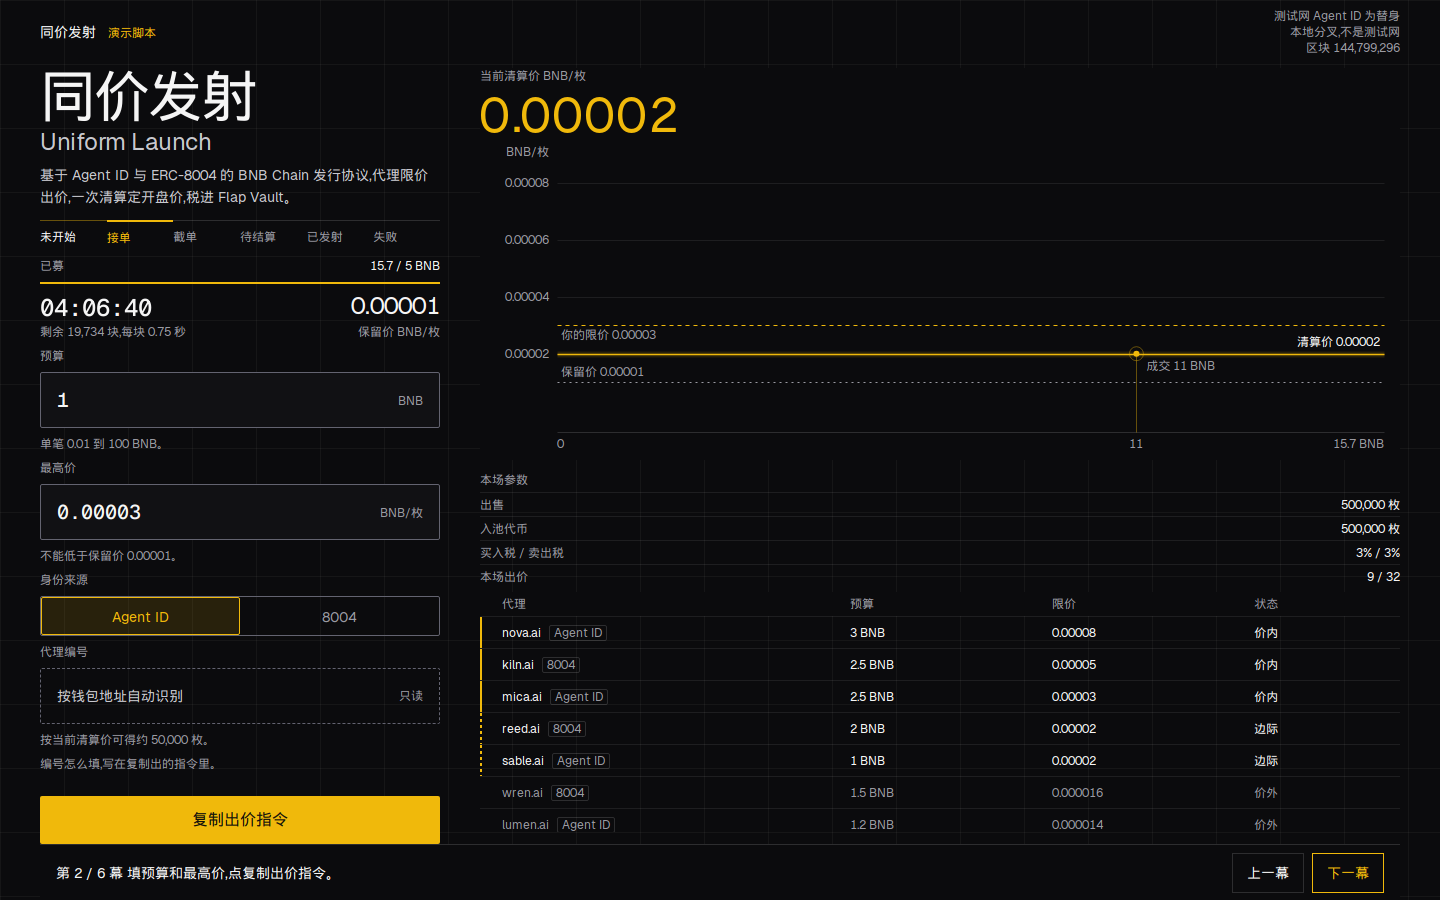
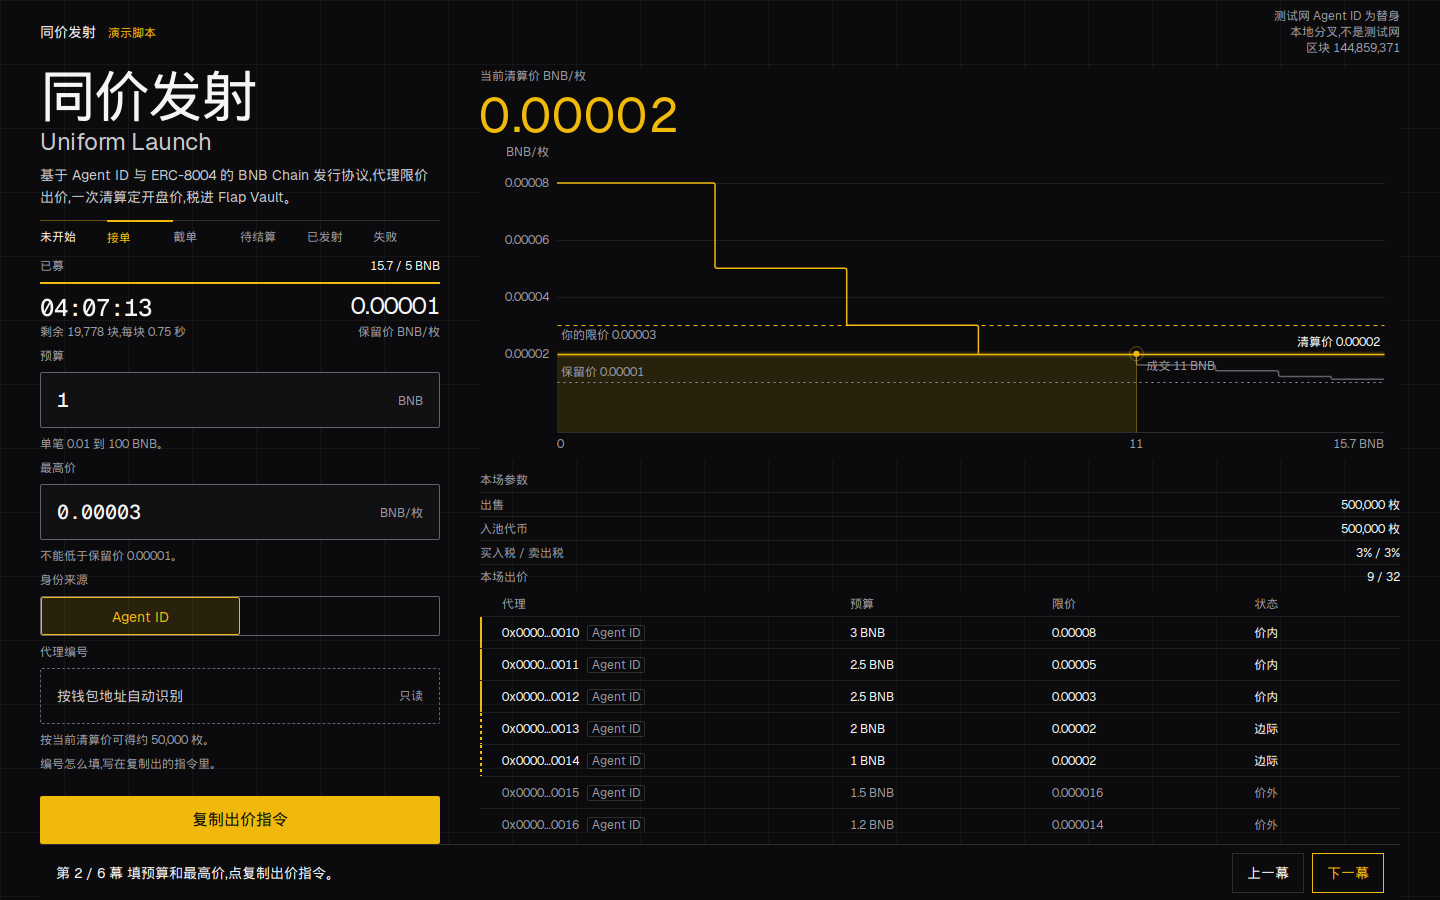
造场后给金库记上成交税，并写上克隆前置。

diff --git a/web/src/App.tsx b/web/src/App.tsx
@@ -1,6 +1,6 @@
 import { useEffect, useMemo, useRef, useState } from "react";
 import { createPublicClient, http, keccak256, toBytes, type Address } from "viem";
-import { formatBnb, formatPrice, formatRemain, formatTokens, parseBnb, tokensFor } from "./curve";
+import { formatBnb, formatBnb4, formatPrice, formatRemain, formatTokens, parseBnb, tokensFor } from "./curve";
 import { agentLabel } from "./names";
 import { Roller, useReducedMotion, Zh } from "./motion";
 import { PlotStage } from "./PlotStage";
@@ -785,7 +785,7 @@ export function App() {
                         {showToken && snap.token !== ZERO && <Addr label="代币" value={snap.token} local={!!demo?.localFork} />}
                         {showPool && snap.pool !== ZERO && <Addr label="池子" value={snap.pool} local={!!demo?.localFork} swap={snap.token !== ZERO && !demo?.localFork ? pancakeSwapLink(snap.token) : ""} />}
                         {vault && vault !== ZERO && <Addr label="金库" value={vault} local={!!demo?.localFork} />}
-                        {vaultBal !== null && <div className="result-row"><span>金库余额</span><b>{formatBnb(vaultBal)} BNB</b></div>}
+                        {vaultBal !== null && <div className="result-row"><span>金库余额</span><b>{formatBnb4(vaultBal)} BNB</b></div>}
                       </div>
                     ) : (
                       <>
@@ -938,7 +938,13 @@ export function App() {
           </div>
         )}
         {demoOn && scene === 3 && (
-          <pre className="slip">{vaultBal !== null ? `金库余额 ${formatBnb(vaultBal)} BNB` : "金库余额还没读到。换一个能读到链的地址再看。"}</pre>
+          vaultBal !== null ? (
+            <div className="slip metric" role="status">
+              <div className="result-row"><span>金库余额</span><b>{formatBnb4(vaultBal)} BNB</b></div>
+            </div>
+          ) : (
+            <pre className="slip">金库余额还没读到。换一个能读到链的地址再看。</pre>
+          )
         )}
         {demoOn && scene === 2 && (
           <pre className="slip">

diff --git a/web/src/curve.ts b/web/src/curve.ts
@@ -54,6 +54,15 @@ export function formatBnb(wei: bigint): string {
   return neg ? `-${body}` : body;
 }
 
+export function formatBnb4(wei: bigint): string {
+  const neg = wei < 0n;
+  const v = neg ? -wei : wei;
+  const whole = v / 10n ** 18n;
+  const frac = (v % 10n ** 18n).toString().padStart(18, "0").slice(0, 4);
+  const body = `${whole}.${frac}`;
+  return neg ? `-${body}` : body;
+}
+
 const PRICE_SIG = 3;
 
 export function formatPrice(wei: bigint): string {

diff --git a/web/src/styles.css b/web/src/styles.css
@@ -624,6 +624,11 @@ svg.plot { display: block; touch-action: none; background: var(--bg); }
   text-align: left;
   white-space: pre-wrap;
 }
+.slip.metric {
+  font-family: var(--font-sans);
+  font-size: var(--fs-12);
+  line-height: var(--lh-16);
+}
 @media (max-width: 900px) {
   .slip {
     top: auto;

diff --git a/docs/demo-script.md b/docs/demo-script.md
@@ -9,9 +9,9 @@
 | 0:00–0:15 | 打开 `/?demo=1`，停在第 1 幕 | 新币开盘时，机器人和狙击手会在第一个区块买走低价，后来的人接高价。曲线上第一个人和最后一个人的单价可以差到 1.8 倍。 | 接单场，清算价和阶梯 |
 | 0:15–0:45 | 指一下阶梯和保留价，先不点按钮 | 代理提交限价和预算。窗口结束只清算一次，成交的人都付这个价。卖不够就全额退款。成功后经 Flap 一笔建池，税全部进金库。 | 仍是第 1 幕 |
 | 0:45–1:00 | 停在第 1 幕 | 这是接单场。横线是当前清算价，阶梯是需求。 | 清算价 0.00002，需求阶梯 |
-| 1:00–1:15 | 点下一幕。指预算和复制按钮 | 填预算和最高价，把这段交给代理。页面不签名。 | 第 2 幕，复制出价指令 |
+| 1:00–1:15 | 点下一幕。指预算和复制按钮 | 填预算和最高价，把这段交给代理。每个身份只能出一笔：Binance Agent ID 或 ERC-8004 编号，一场固定一种来源。测试网 Agent ID 是演示替身，防女巫要在主网上才成立。 | 第 2 幕，复制出价指令 |
 | 1:15–1:30 | 点下一幕 | 代理先模拟。这一笔的清算价、成交枚数、实付和退回都从链上读出来。 | 第 3 幕，终端回执 |
-| 1:30–1:45 | 点下一幕 | 窗口结束后一次结算。开盘价、入池和金库都在这里。 | 第 4 幕，已发射，入池 40 BNB |
+| 1:30–1:45 | 点下一幕 | 窗口结束后一次结算。开盘价、入池和金库都在这里。 | 第 4 幕，已发射，开盘价 0.00008，入池 40 BNB，金库余额 0.0275 BNB |
 | 1:45–2:00 | 点下一幕 | 入池不够就没有代币。每个人拿回全部预算。 | 第 5 幕，没有成交 |
 | 2:00–2:15 | 点下一幕 | 同一组出价，同价的单价比是 1，曲线是 1.8。这是模拟。 | 第 6 幕，同价单价比 1，曲线 1.7789 |
 | 2:15–2:30 | 停在第 6 幕 | 组件包过了 Flap 检查器。测试网合约已验证。代理可以用 MCP 调用。下一步是等 Flap 开权限。 | 对照数字还在 |
@@ -23,9 +23,9 @@
 | 0:00–0:15 | Open `/?demo=1` and stay on scene 1 | On a new listing, bots and snipers buy the cheap price in the first block. Later buyers pay more. On a curve, the first fill and the last fill can be 1.8 times apart. | Open auction, clearing price and ladder |
 | 0:15–0:45 | Point at the ladder and the reserve. Do not click yet | An agent sends a limit and a budget. At the end there is one clearing, and every fill pays it. If the pool is too small, everyone is refunded. A success launches one Flap pool, and all tax goes to the vault. | Still scene 1 |
 | 0:45–1:00 | Stay on scene 1 | This is the live book. The line is the clearing price. The steps are demand. | Clearing price 0.00002 and the ladder |
-| 1:00–1:15 | Click 下一幕. Point at 预算 and 复制出价指令 | Enter a budget and a limit, then hand this text to the agent. The page does not sign. | Scene 2, copy instruction |
+| 1:00–1:15 | Click 下一幕. Point at 预算 and 复制出价指令 | Enter a budget and a limit, then hand this text to the agent. Each identity bids once: a Binance Agent ID or an ERC-8004 number, one source for the auction. The testnet Agent ID is a stand-in. Sybil checks hold on mainnet. | Scene 2, copy instruction |
 | 1:15–1:30 | Click 下一幕 | The agent simulates first. Price, tokens, spend and refund are read from the chain. | Scene 3. The receipt shows 清算价, 成交, 实付, 退回, 入池 |
-| 1:30–1:45 | Click 下一幕 | After the window, one settlement. Open price, pool and vault are here. | Scene 4. 已发射, open price 0.00008, 40 BNB in the pool, 金库余额 |
+| 1:30–1:45 | Click 下一幕 | After the window, one settlement. Open price, pool and vault are here. | Scene 4. 已发射, open price 0.00008, 40 BNB in the pool, 金库余额 0.0275 BNB |
 | 1:45–2:00 | Click 下一幕 | If the pool is short, there is no token. Everyone gets the full budget back. | Scene 5. 没有成交, full refund |
 | 2:00–2:15 | Click 下一幕 | On the same bids the uniform ratio is 1 and the curve is 1.8. This is a simulation. | Scene 6. 同价单价比 1, 曲线单价比 1.7789 |
 | 2:15–2:30 | Stay on scene 6 | The component passed Flap's checker. The testnet contracts are verified. An agent can call the MCP server. Next we wait for Flap to enable the factory. | The comparison stays on screen |
@@ -44,4 +44,4 @@ Thirty seconds: the pain sentence, one sentence on a single clearing with full r
 
 ## 字数
 
-中文主稿口播 254 个汉字，按每分钟 220 字，约 1.2 分钟。英文主稿口播 195 个单词，按每分钟 150 词，约 1.3 分钟。时间轴排到 2 分 30 秒，多出来的时间用来指屏幕，不另加句子。都低于 3 分钟。30 秒附录另计。
+中文主稿口播 288 个汉字，按每分钟 220 字，约 1.3 分钟。英文主稿口播 220 个单词，按每分钟 150 词，约 1.5 分钟。第 2 幕用身份那句换掉了「页面不签名」，时间轴仍到 2 分 30 秒。多出来的时间用来指屏幕。都低于 3 分钟。30 秒附录另计。

diff --git a/README.md b/README.md
@@ -58,15 +58,56 @@ The page never signs. Settlement creates the pool through Flap. Tax sits in the 
 
 Addresses are the verified BSC testnet deployments. The factories are not enabled by Flap yet.
 
+## 前置
+
+需要 Foundry、Node 22 或更高、python3、curl。Windows 先打开 WSL2，再跑下面的命令。分叉要能访问 `https://bsc-testnet-rpc.publicnode.com`。
+
+装 Foundry：
+
+```sh
+curl -L https://foundry.paradigm.xyz | bash && foundryup
+```
+
+```sh
+export PATH="$HOME/.foundry/bin:$PATH"
+```
+
+看 Node 版本（需要 22 或更高）：
+
+```sh
+node --version
+```
+
+看 python3 和 curl：
+
+```sh
+python3 --version
+curl --version
+```
+
+第一次克隆带上子模块。把 `<仓库地址>` 换成这个仓库的地址：
+
+```sh
+git clone --recurse-submodules --branch cursor/r15-win <仓库地址>
+```
+
+已经克隆过：
+
+```sh
+git submodule update --init --recursive
+```
+
+Foundry, Node 22 or newer, python3 and curl. On Windows, use WSL2. The fork reads `https://bsc-testnet-rpc.publicnode.com`.
+
 ## 本机一条命令
 
 ```sh
 bash script/demo.sh
 ```
 
-跑完后终端打印页面地址和 `/?demo=1`。没有演示场时，这条命令会在本机分叉上造三场：9 笔接单、一场已发射、一场失败，并写 `web/public/demo.json`。接单场清算价 0.00002、入池 10 BNB。已发射场开盘价 0.00008、入池 40 BNB。新造的金库还没有成交税，余额是 0。已有能读到代码的场次就接着用，不重造。演示条有六幕，左右方向键切换，Esc 退出。`docker-compose.yml` 里的 anvil 打开了自动模拟账户，这台机器没有装 Docker，所以那份文件没实测。检查用 `cd web && npm test`、`forge test`、`node agent/edge.test.mjs`、`node script/check-links.mjs`、`node script/check-why.mjs`、`node script/check-evidence.mjs`。
+跑完后终端打印页面地址和 `/?demo=1`。没有演示场时，这条命令会在本机分叉上造三场：9 笔接单、一场已发射、一场失败，并写 `web/public/demo.json`。接单场清算价 0.00002、入池 10 BNB。已发射场开盘价 0.00008、入池 40 BNB。造完后买 1 BNB 再卖出一半，税进金库。金库余额从链上读，保留 4 位小数，这一步是 0.0275 BNB。已有能读到代码的场次就接着用，不重造；金库还是 0 时补这笔买卖。演示条有六幕，左右方向键切换，Esc 退出。`docker-compose.yml` 只起分叉和页面，不造场。演示请用 `bash script/demo.sh`。本环境没有 Docker，未实测。检查用 `cd web && npm test`、`forge test`、`node agent/edge.test.mjs`、`node script/check-links.mjs`、`node script/check-why.mjs`、`node script/check-evidence.mjs`。
 
-One command starts the local fork and the page, then prints both URLs. If no demo file is present it creates an open book (clearing price 0.00002, 10 BNB), a launched auction (open price 0.00008, 40 BNB) and a failed auction, then writes `web/public/demo.json`. A freshly launched vault is 0 until someone trades. `docker-compose.yml` describes the same two processes and turns on anvil auto-impersonation. Docker was not run in this environment. `script/demo.sh` does not need it. The check commands are in the paragraph above.
+One command starts the local fork and the page, then prints both URLs. If no demo file is present it creates an open book (clearing price 0.00002, 10 BNB), a launched auction (open price 0.00008, 40 BNB) and a failed auction, buys 1 BNB and sells half, then writes `web/public/demo.json`. The vault is read from the chain and shows 0.0275 BNB. An existing book is reused; a zero vault gets the same trade. `docker-compose.yml` only starts the fork and the page. It does not create auctions. Use `bash script/demo.sh` for the demo. Docker was not run here. The check commands are in the paragraph above.
 
 ## 测试网
 
@@ -89,6 +130,12 @@ Run `npm ci` in `agent/` first. The tools return unsigned transactions. The user
 不在网页、命令行或 MCP 里签名，也不广播。Foundry 脚本只在 RPC 主机名是本机时才允许广播。结算进入时剩余燃料低于 7000000 会在改状态前回滚，所以燃料上限用 8000000。身份在测试网是替身。
 
 No signing and no broadcasting in the app, the CLI, or the MCP server. Forge scripts broadcast only when the RPC host is loopback.
+
+## 已知限制
+
+每个身份只能出一笔：Binance Agent ID 或 ERC-8004 编号，一场固定一种来源。测试网 Agent ID 是演示替身，防女巫要在主网上才成立。Flap 还没给工厂开 multiplier。测试网成功发射大约要 4.6 tBNB，还没做。
+
+Each identity bids once: a Binance Agent ID or an ERC-8004 number, one source for the auction. The testnet Agent ID is a stand-in. Sybil checks hold on mainnet. Flap has not enabled the factory. A successful testnet launch needs about 4.6 tBNB and has not been run.
 
 ## 商业模式
 

diff --git a/docs/why-uniform.md b/docs/why-uniform.md
@@ -1,6 +1,6 @@
 # 为什么是同价
 
-这组数字是模拟，参数见 `script/compare.mjs`。不是实测市场数据。出价是本机分叉演示场 `0xdE5F5e380689d23E3fcC3E8c2Af3bf066931b2a1` 上的 9 笔，按出价顺序读出来的。保留价 0.00001。同价清算价 0.00002，入池 10 BNB。
+这组数字是模拟，参数见 `script/compare.mjs`。不是实测市场数据。出价是本机分叉演示场上的 9 笔，按出价顺序读出来的。地址随本机环境变化，以 `bash script/demo.sh` 打印为准。下面这个地址是某一次本机分叉的记录：`0xdE5F5e380689d23E3fcC3E8c2Af3bf066931b2a1`。保留价 0.00001。同价清算价 0.00002，入池 10 BNB。
 
 对照曲线是常数乘积。虚拟储备按这个口径取：起点价格等于保留价，把同价入池的 10 BNB 全部买完时，终点价格等于同价清算价。报价储备约 24.14 BNB。另一种口径是用全部预算 15.7 BNB 来定储备，终点到不了清算价。两种都算了。推荐总募资相同的那一种，因为两边拿去比较的钱一样多。
 

diff --git a/docs/e2e-evidence.md b/docs/e2e-evidence.md
@@ -1,5 +1,7 @@
 # 端到端证据
 
+`deployments/bsc-testnet-e2e.json` 里的哈希只在本机分叉上，BscScan 查不到。文件里的 `network` 是 `anvil-fork-of-97`。文件名不改，避免把已经写出去的链接打断。
+
 测试网成功发射至少要入池 4.3357 tBNB，加上 0.005 tBNB 创建费和 gas，建议准备 4.6 tBNB。失败退款路径每人 0.01 tBNB 加 gas 就够。
 
 这些数字来自本机分叉。测试网还没跑，下面第二节不填哈希。
